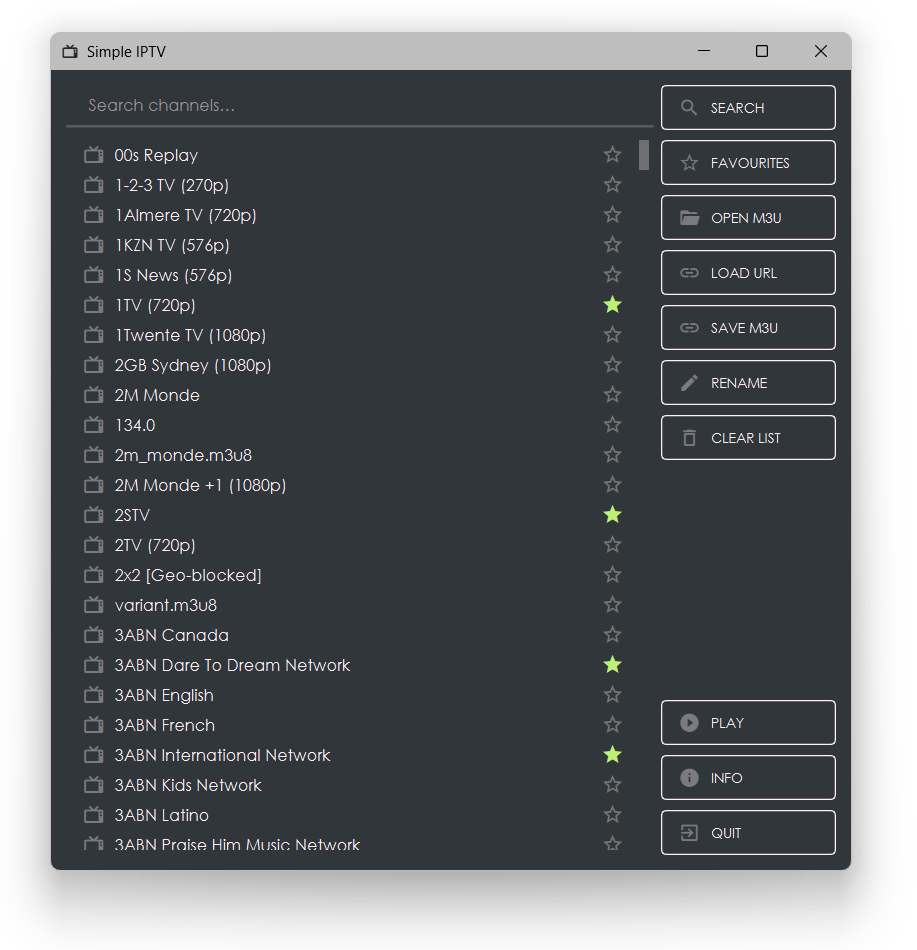
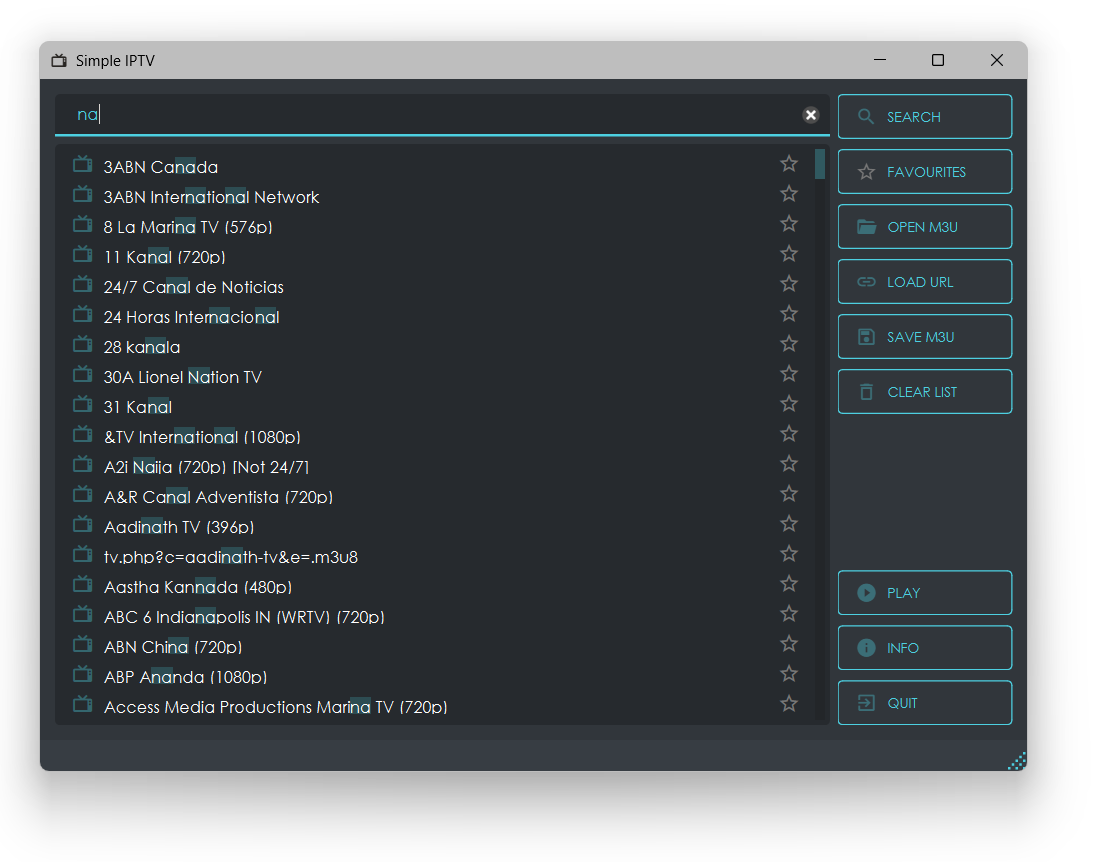
Tweak UI and update screenshot

Changed region(s): [[0.0305, 0.0302, 0.9466, 0.935]]

diff --git a/simple-iptv.py b/simple-iptv.py
@@ -63,9 +63,8 @@ Features:
 • Search channels
 • Favourites (toggle view / star items)
 • Open local M3U
-• Load from URL (auto-detects Xtream codes)
+• Load from URL (auto-detects Xtream)
 • Save current playlist (all or favourites only)
-• Rename channels
 • Drag to reorder
 • Clear list
 
